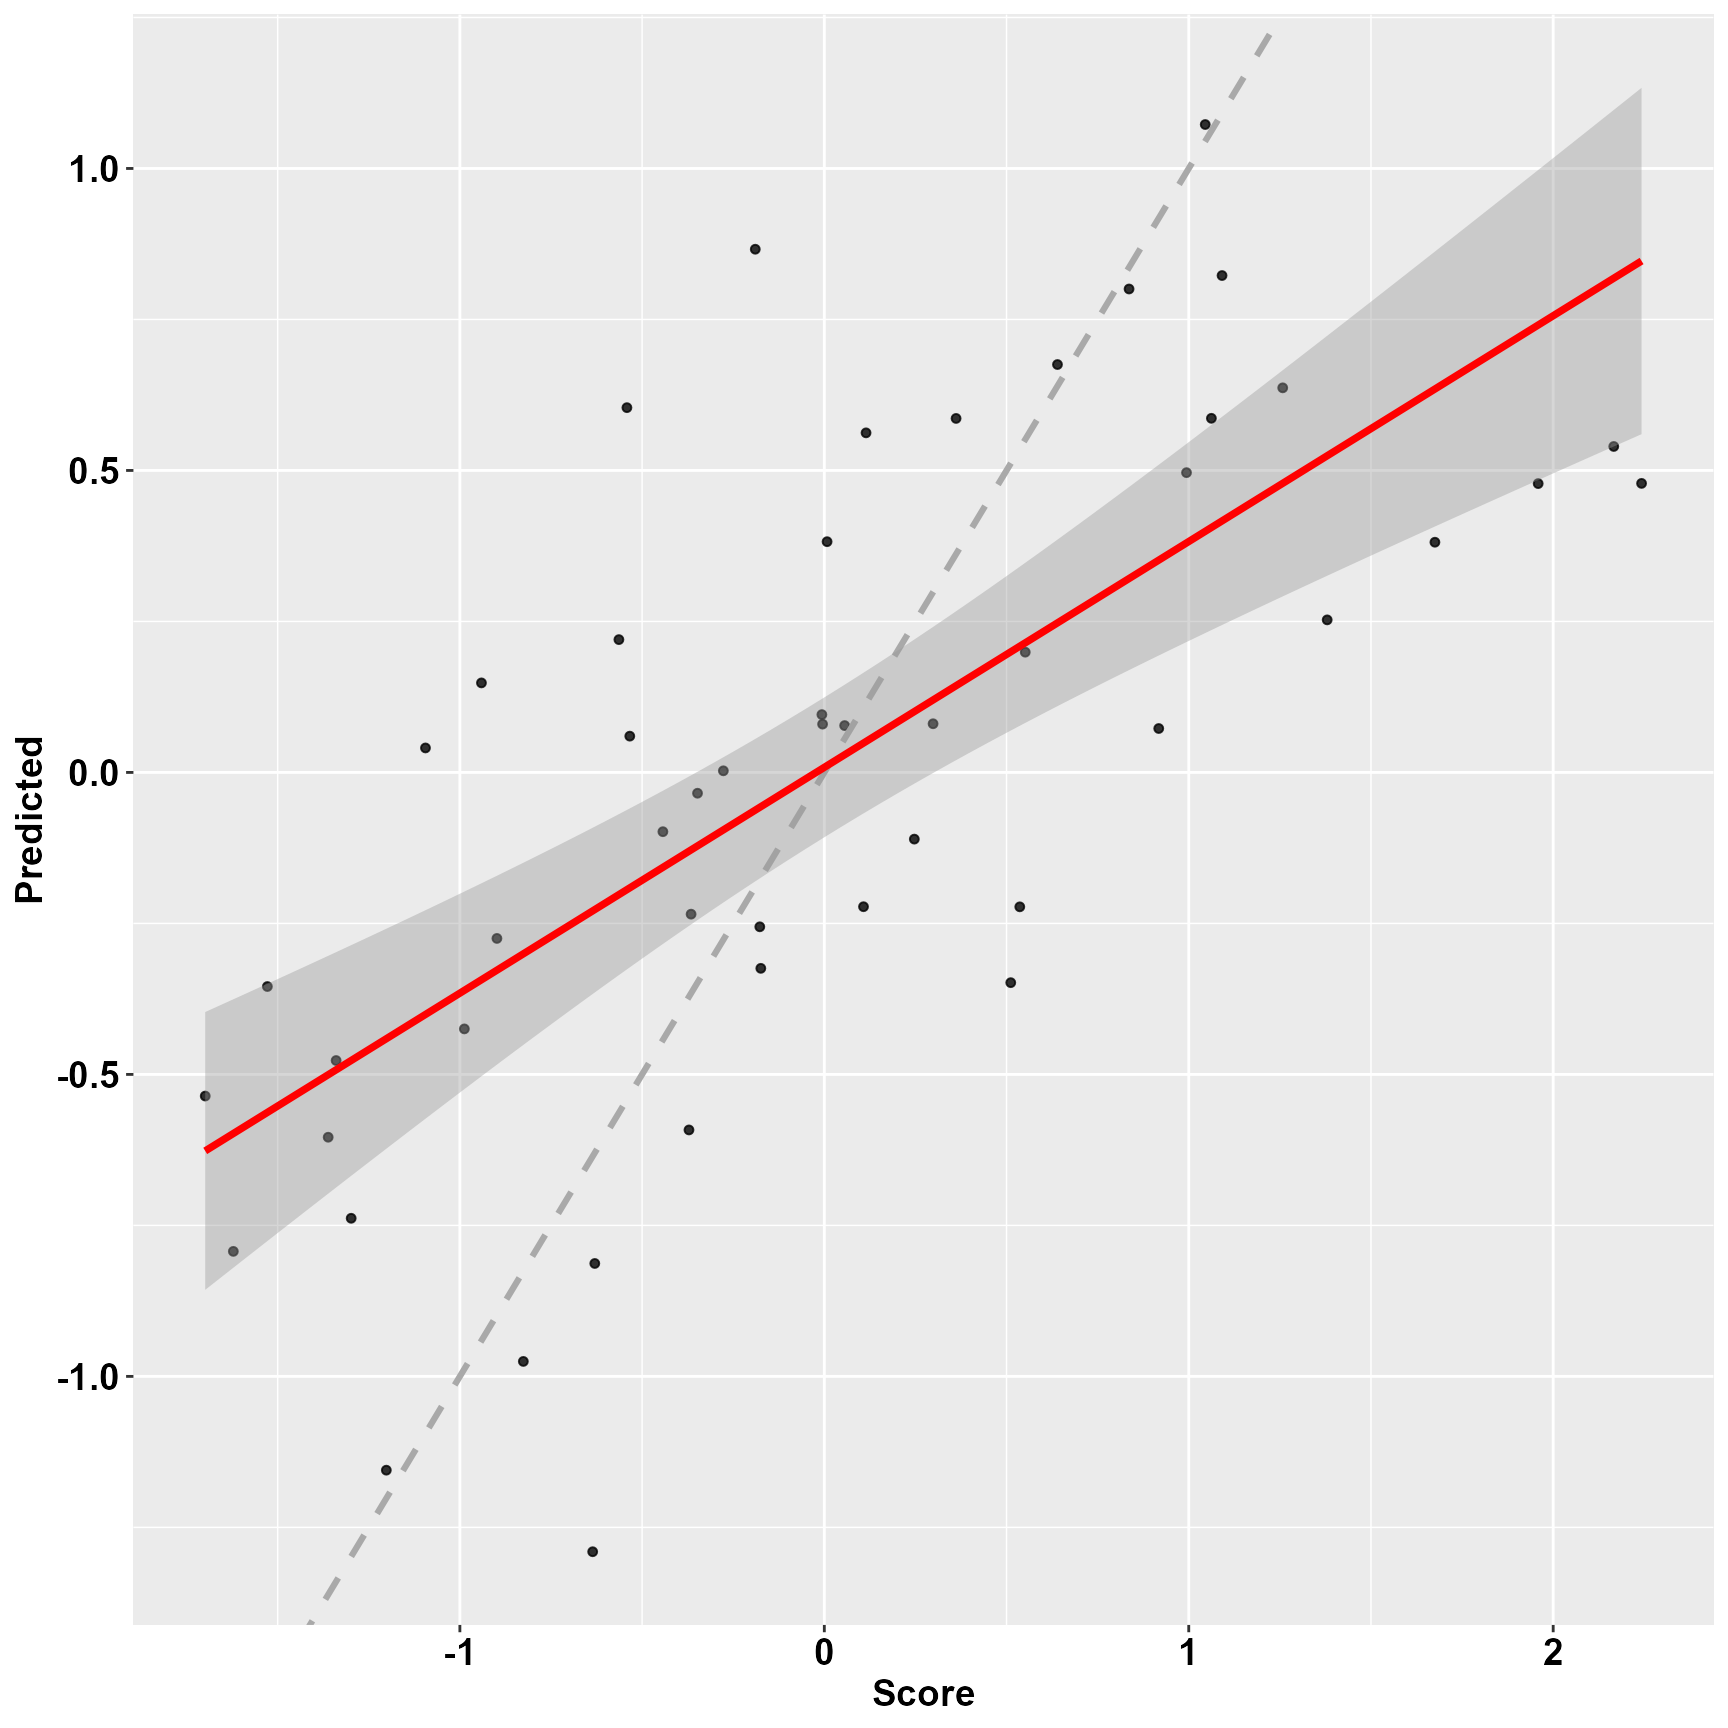
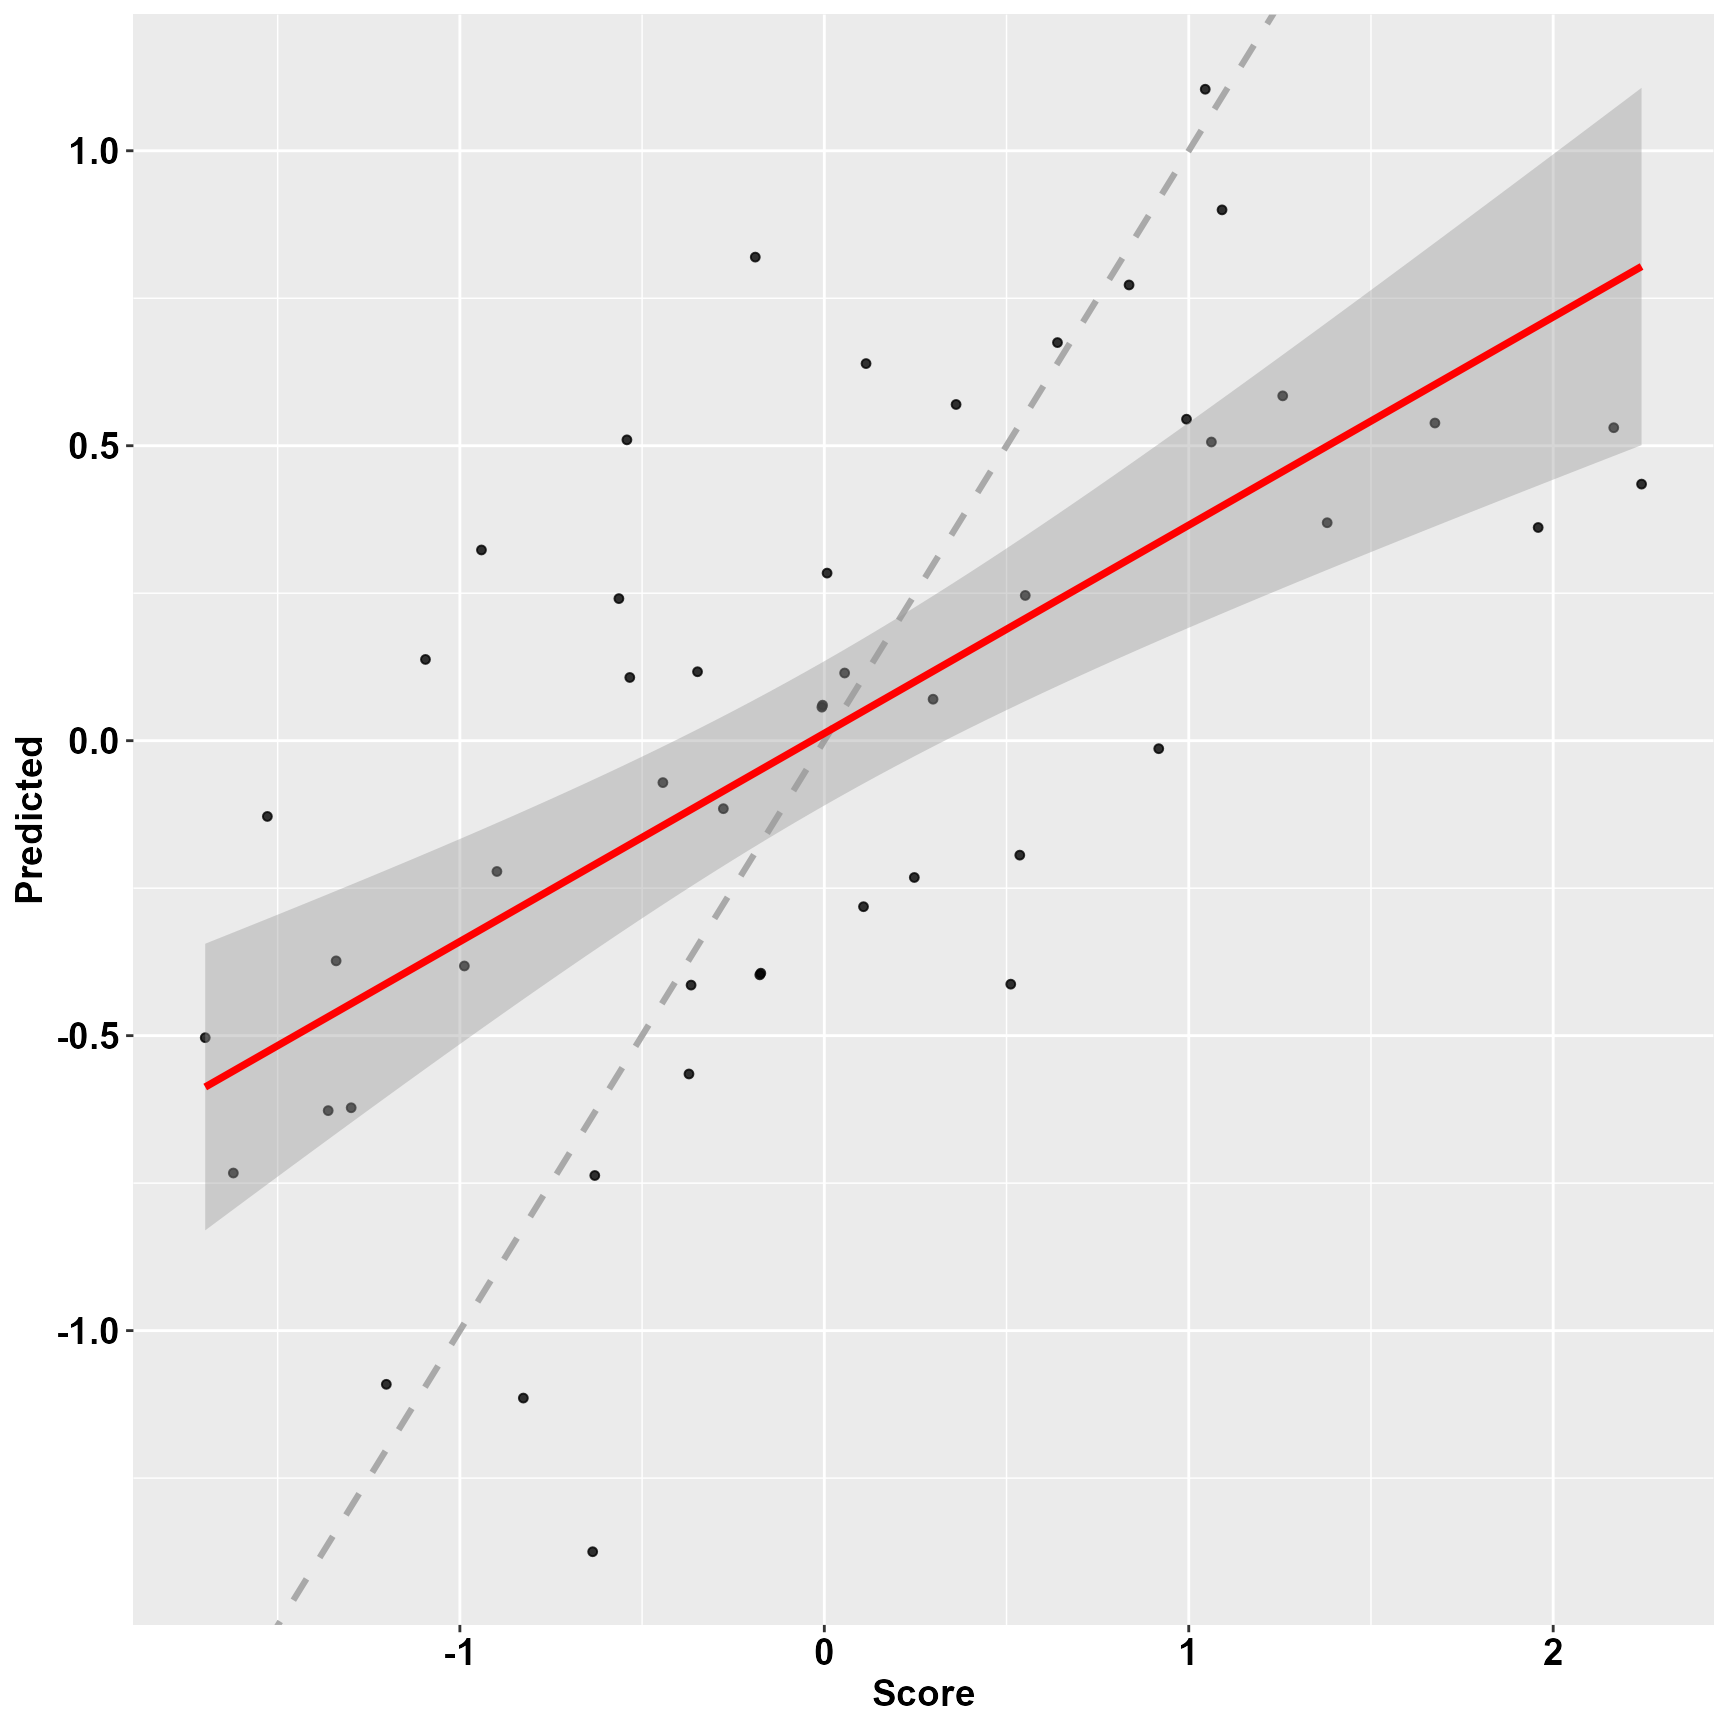
site

diff --git a/docs/articles/FCnet_overview_of_package.html b/docs/articles/FCnet_overview_of_package.html
@@ -228,8 +228,8 @@
                  alpha<span class="op">=</span> <span class="fl">0</span>, <span class="co">#ridge regression</span>
                  parallelLOO <span class="op">=</span> <span class="cn">F</span><span class="op">)</span> 
 <span class="va">r_bias</span><span class="op">$</span><span class="va">R2</span></code></pre></div>
-<pre><code>## [1] 0.462459</code></pre>
-<p>It appears that this model is capable to explain about 46% of the variance from LOO observations.</p>
+<pre><code>## [1] 0.4072602</code></pre>
+<p>It appears that this model is capable to explain about 40% of the variance from LOO observations.</p>
 <p>A graphical depiction of the fit or coefficients can be obtained with <code><a href="../reference/plotFCnet.html">plotFCnet()</a></code>:</p>
 <div class="sourceCode"><pre class="downlit sourceCode r">
 <code class="sourceCode R"><span class="fu"><a href="../reference/plotFCnet.html">plotFCnet</a></span><span class="op">(</span>model <span class="op">=</span> <span class="va">r_bias</span>, 
@@ -282,12 +282,12 @@
 <span class="fu">knitr</span><span class="fu">::</span><span class="fu"><a href="https://rdrr.io/pkg/knitr/man/kable.html">kable</a></span><span class="op">(</span><span class="va">perm_bias</span><span class="op">$</span><span class="va">Summary</span><span class="op">)</span></code></pre></div>
 <table class="table">
 <colgroup>
-<col width="8%">
+<col width="9%">
 <col width="11%">
 <col width="7%">
 <col width="9%">
 <col width="9%">
-<col width="9%">
+<col width="8%">
 <col width="11%">
 <col width="11%">
 <col width="11%">
@@ -306,16 +306,16 @@
 <th align="right">Quantile_95</th>
 </tr></thead>
 <tbody><tr class="odd">
-<td align="right">0.462459</td>
+<td align="right">0.4072602</td>
 <td align="right">100</td>
-<td align="right">0</td>
-<td align="right">0.0664094</td>
-<td align="right">0.0696475</td>
-<td align="right">0.2029185</td>
-<td align="right">0.0489721</td>
-<td align="right">0.0799072</td>
-<td align="right">0.1571282</td>
-<td align="right">0.2154444</td>
+<td align="right">0.43</td>
+<td align="right">0.4640017</td>
+<td align="right">0.4114322</td>
+<td align="right">1.270409</td>
+<td align="right">0.304157</td>
+<td align="right">0.9372907</td>
+<td align="right">1</td>
+<td align="right">1</td>
 </tr></tbody>
 </table>
 <p>The original model's R2 is reported on the left. On the rightmost part of the row, a few statistics concerning the distribution of R2 from null models is reported. The full distribution is available to the user anyway in the created object through the relative slot. In this fictional scenario, and considering the low number of permutations, it appears that the original model beats most null models. Models can always be improved by crossvalidating the number of features to extract, though particular attention should be payed not to "double dip" in the data.</p>
